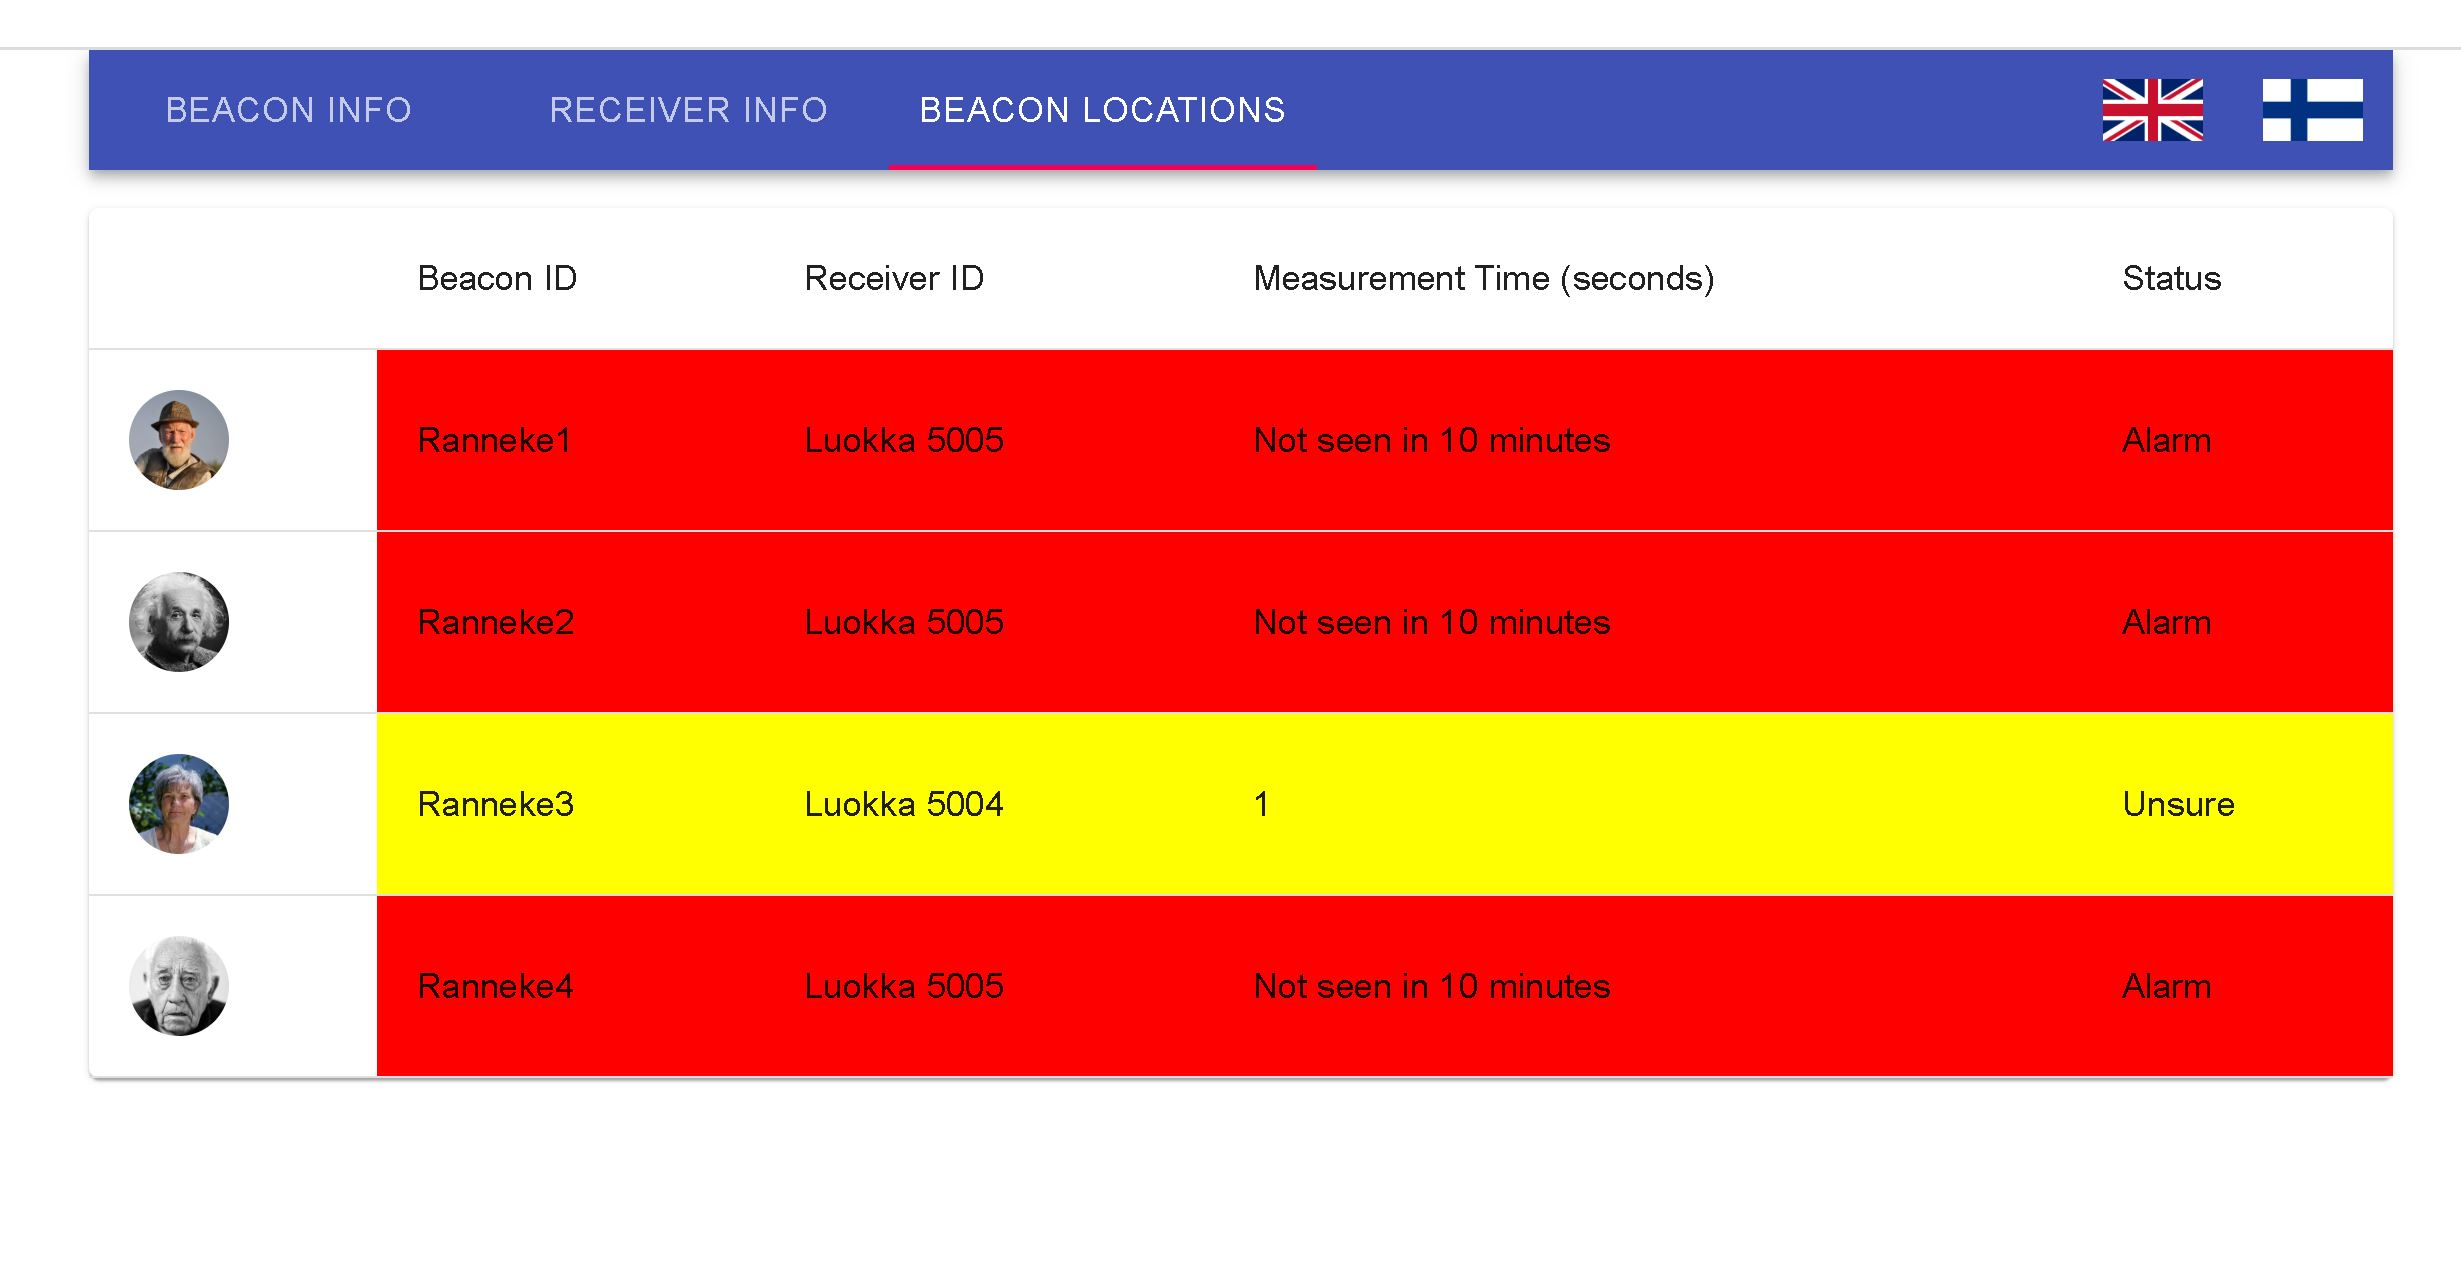
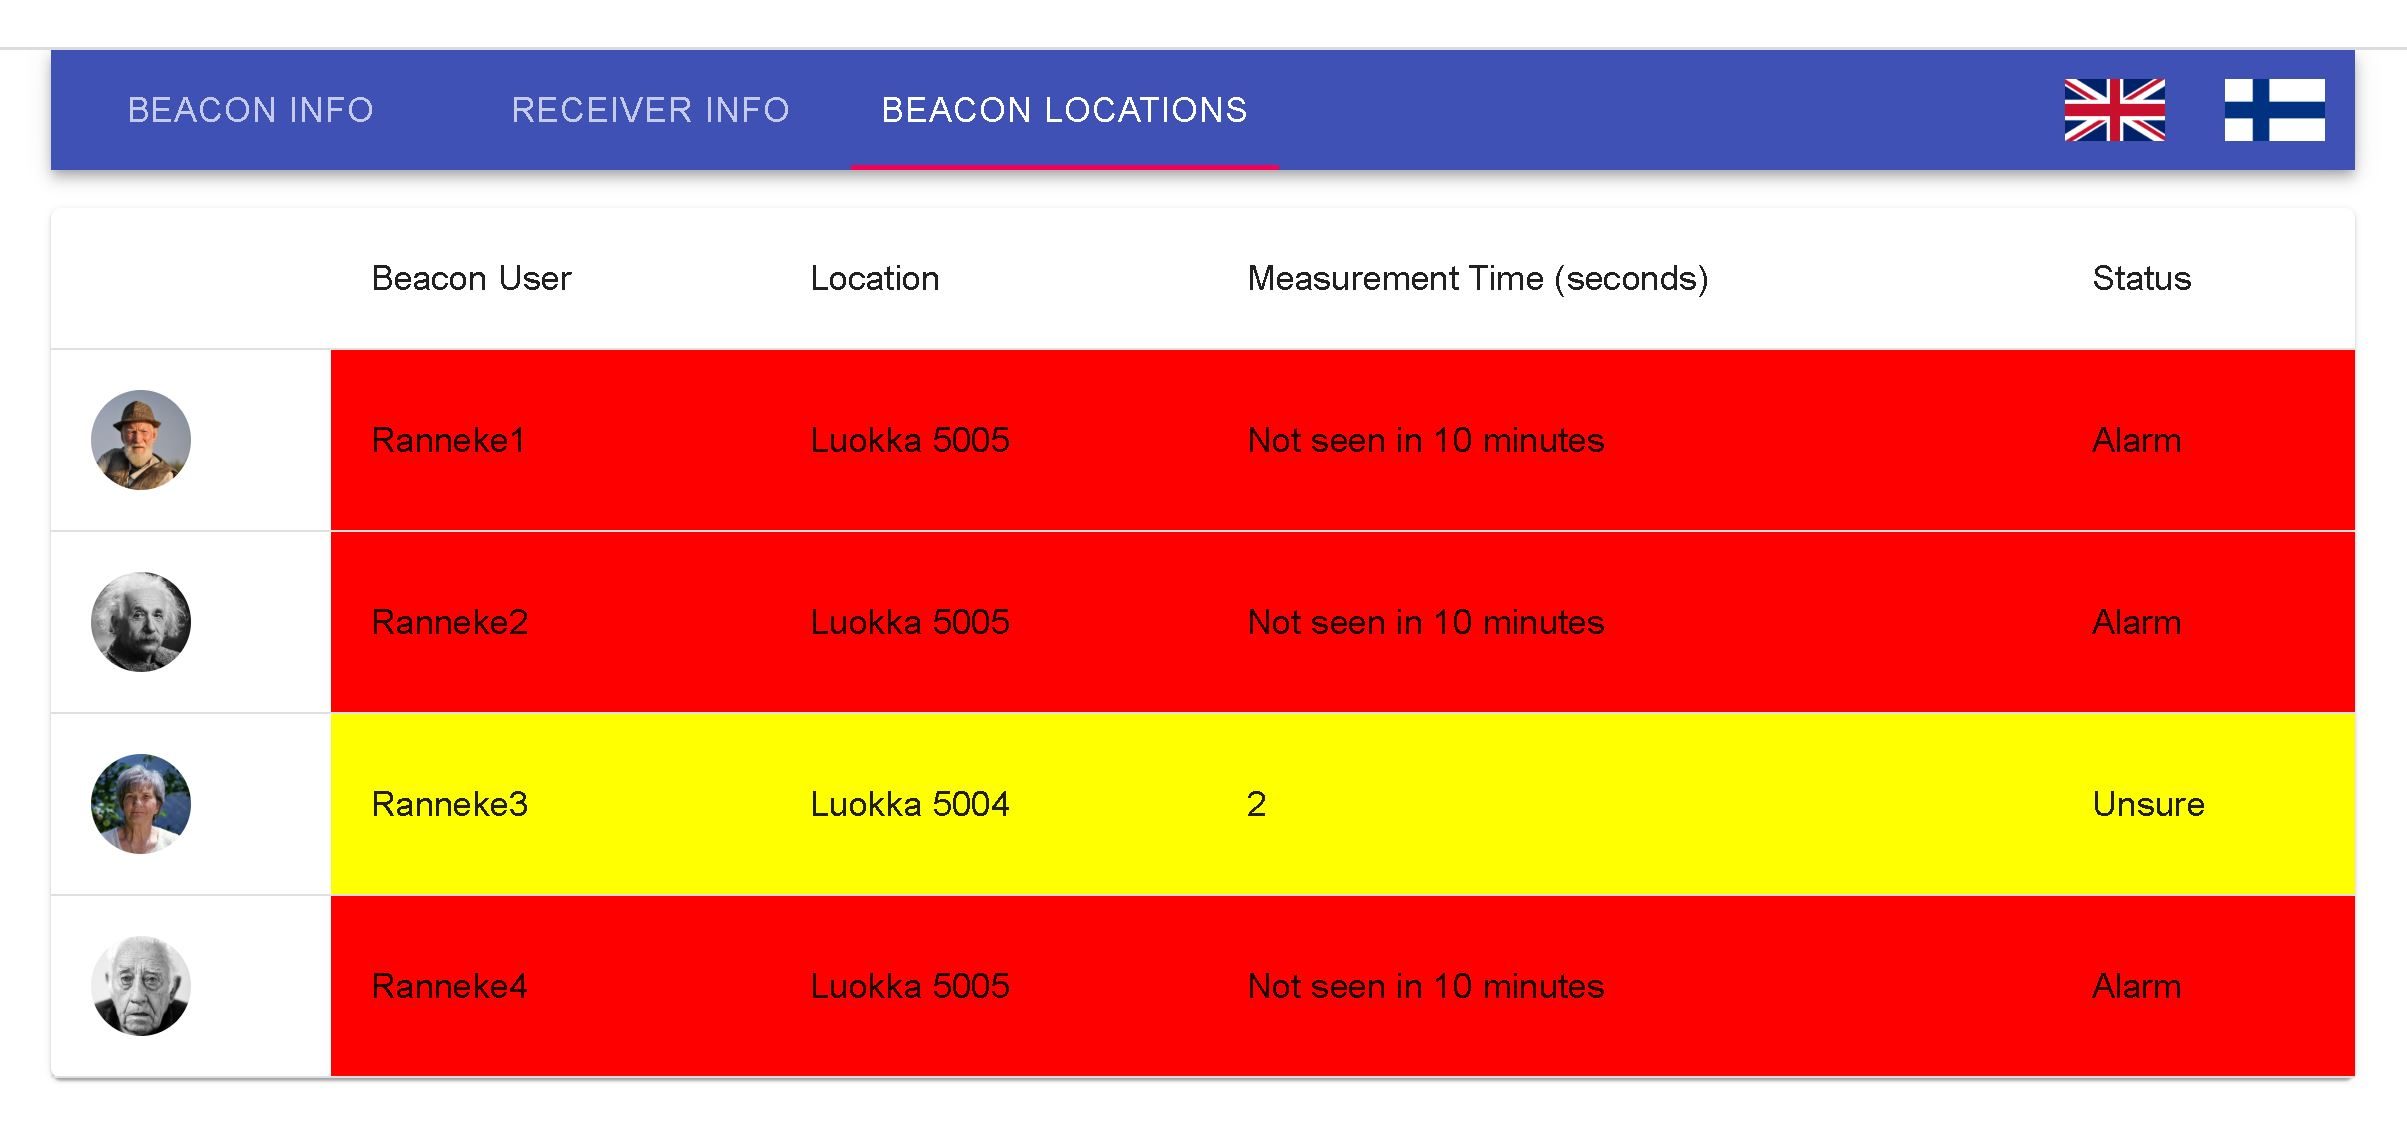
small header fix

diff --git a/src/www/pages/beacon_locations.js b/src/www/pages/beacon_locations.js
@@ -79,8 +79,8 @@ render() {
                     <TableHead>
                         <TableRow>
                             <TableCell></TableCell>
-                            <TableCell>{t("Beacon ID")}</TableCell>
-                            <TableCell>{t("Receiver ID")}</TableCell>
+                            <TableCell>{t("Beacon User")}</TableCell>
+                            <TableCell>{t("Location")}</TableCell>
                             <TableCell>{t("Time")}</TableCell>
                             <TableCell>{t("Status")}</TableCell>
                         </TableRow>
